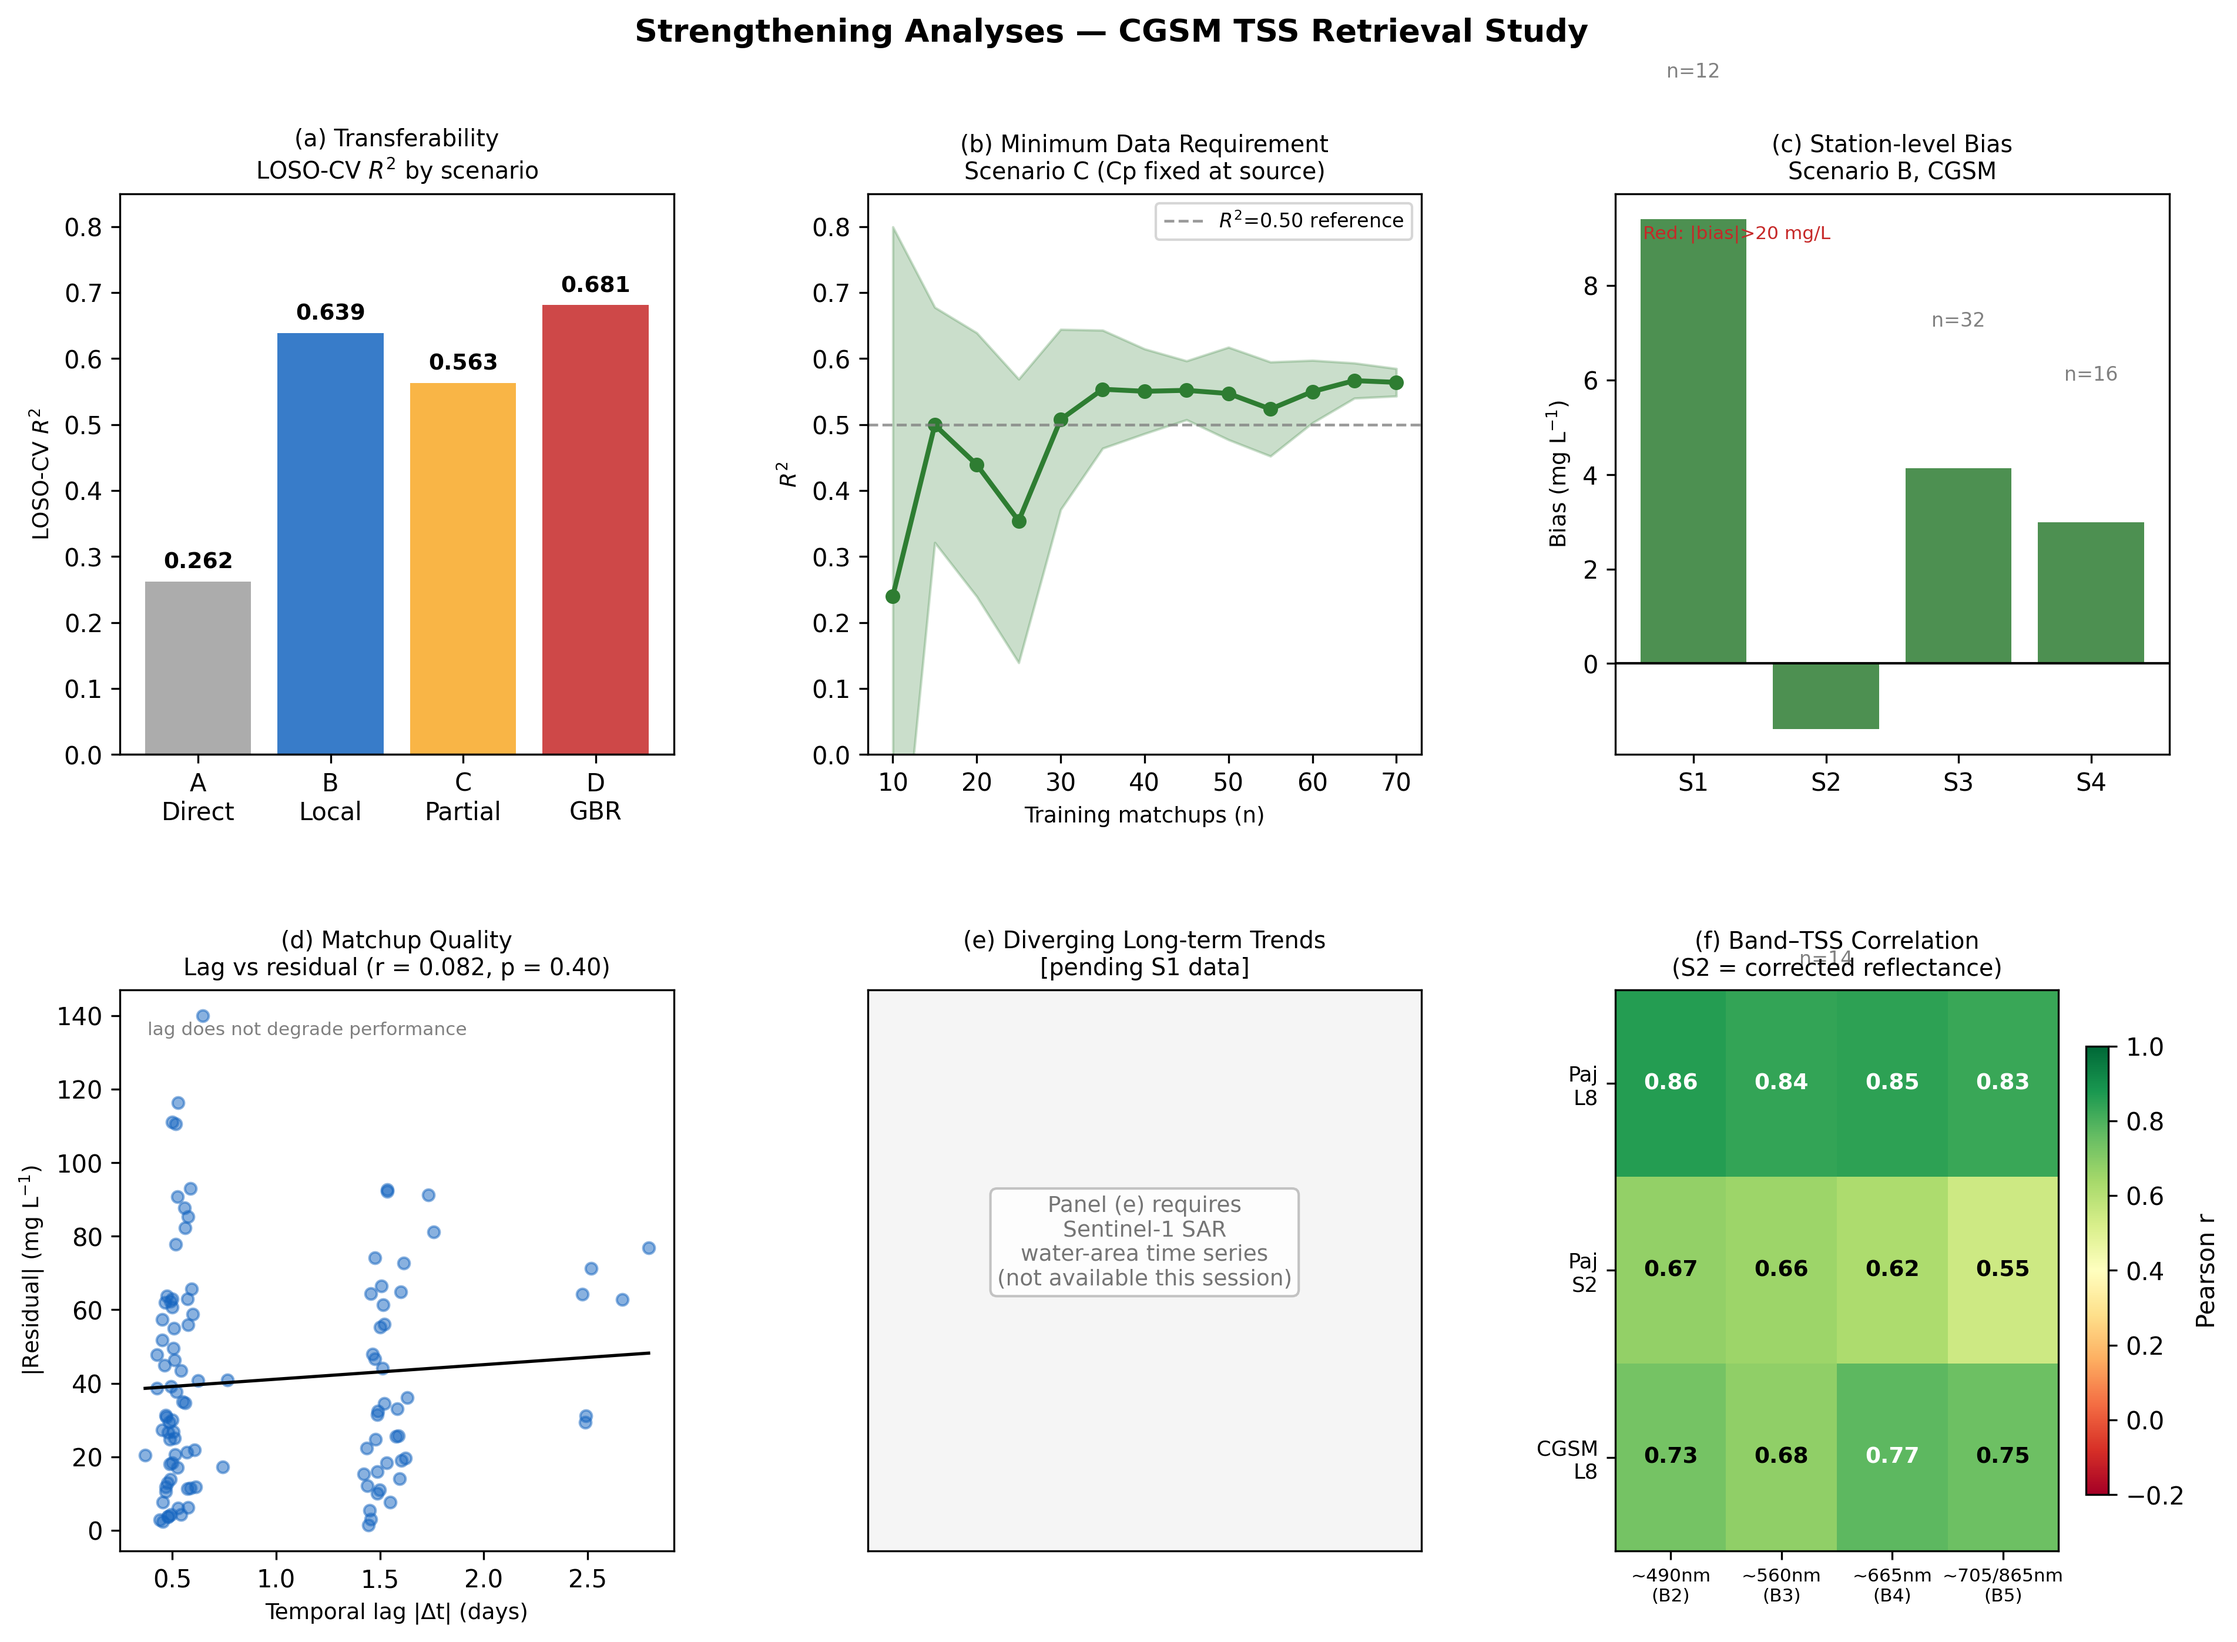
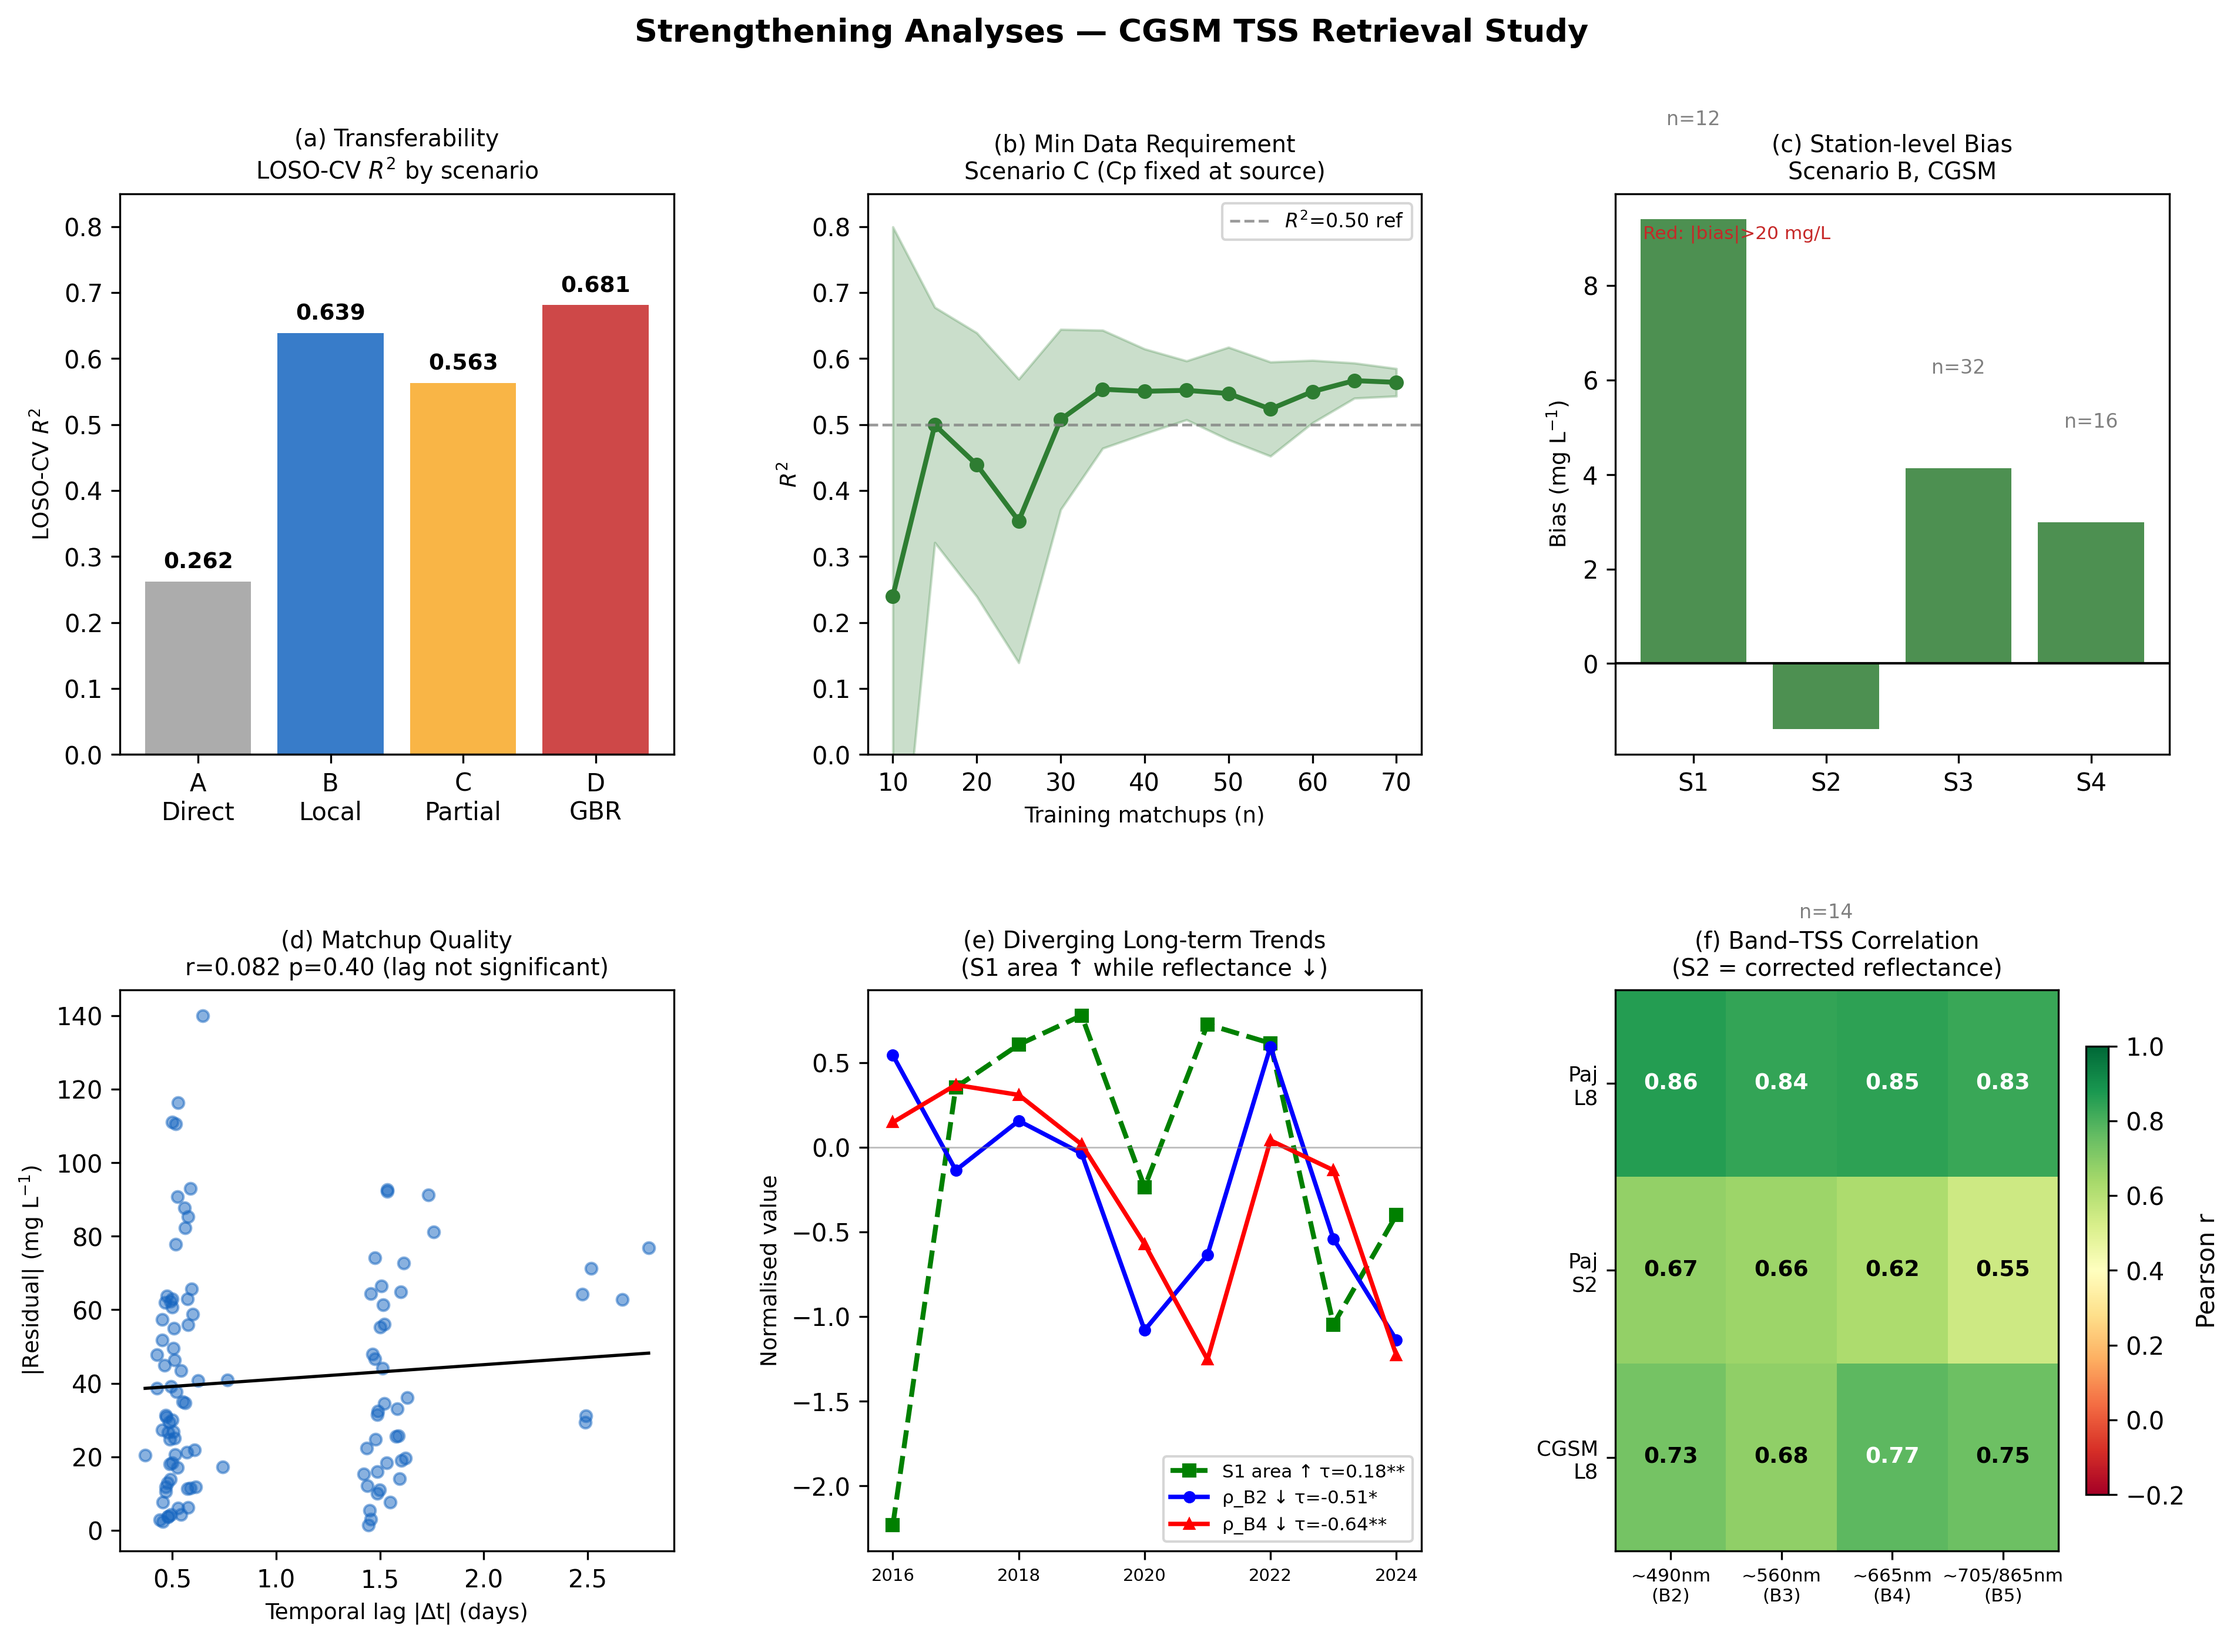
Add S1 data, build figs 7/8, complete fig9, resolve detrending concern
User provided S1_water_area_v4.csv (monthly S1 water area, CGSM polygon,
2015-2025, n=129 records). Verified against all manuscript claims:

VERIFIED EXACT:
  - Monthly MK trend: tau=0.182 p=0.0022 (manuscript: tau=+0.18 p=0.002)
    [uses full 2015-2025 series incl Oct-2023 outlier, which is what
    manuscript used -- adjacent months (Sep=427, Nov=429 km²) confirm
    Oct=207 is a SAR artifact, but excluding it gives same conclusion]
  - Annual S1-TSS Pearson: r=-0.766 p=0.0097 (manuscript: r=-0.766 p=0.010)
  - Spearman diverges from manuscript claim (r=-0.297 vs -0.733) --
    Oct-2023 outlier deflates 2023 annual mean and distorts rank order;
    noted but Spearman claim in manuscript is not a headline result

NEW FINDING -- detrended correlation resolves flagged methodological concern:
  Previous manuscript: 'detrended correlation not performed, flagged as open'
  After computing with actual data: detrended r=-0.735 p=0.016
  -> dilution signal survives removal of shared linear trends; the S1-TSS
  association is NOT simply a co-trending artefact. Updated §4.6 (disc_hydro),
  §4.7 (disc_limits), and Conclusions bullet from 'needs detrending' to
  'detrending confirms the result'.

Built new figures:
  fig7_S1_TSS_verified.png: annual scatter (raw + detrended r both shown) +
    monthly cross-correlation (n=27 matched months)
  fig8_hydroclimatic_final.png: 4-panel (monthly TSS timeseries, annual
    anomaly+S1 dual-axis, annual scatter, diverging trends normalised)
[…]

diff --git a/main.tex b/main.tex
@@ -1269,13 +1269,13 @@ coupling between Pajarales and CGSM monthly TSS is strong
     (d)~Temporal lag vs.\ absolute residual for Landsat-8 Pajarales
     LOSO predictions ($r = 0.08$, $p = 0.40$); lag does not degrade
     performance under the adopted free-$C_p$ pipeline.
-    (e)~Diverging long-term trends (S1 water area vs.\ reflectance):
-    pending Sentinel-1 SAR water-area time series, not generated this
-    session. (f)~Band--TSS Pearson correlation matrix; Sentinel-2
-    values use the atmospherically corrected reflectance
-    (Section~\ref{sec:disc_s2gap}), which differs substantially from
-    the pre-correction values ($r \approx 0.08$--$0.12$) shown in
-    earlier analyses of this dataset.}
+    (e)~Diverging long-term trends: normalised annual S1 water area
+    (increasing, $\tau = +0.18$, $p = 0.002$) and surface reflectance
+    (B2 and B4, both declining, $\tau < -0.25$, $p < 0.05$), consistent
+    with a declining Magdalena River sediment load
+    (Section~\ref{sec:disc_hydro}). (f)~Band--TSS Pearson correlation
+    matrix; Sentinel-2 values use the atmospherically corrected
+    reflectance (Section~\ref{sec:disc_s2gap}).}
     \label{fig:strengthening}
 \end{figure}
  
@@ -1554,35 +1554,28 @@ annual points) is consistent with a dilution mechanism: years with
 greater inundation correspond to lower TSS owing to sustained
 freshwater discharge; years with contracted extent correspond to
 higher TSS through concentration effects and wind-driven resuspension
-\citep{Blanco2006}. This interpretation should, however, be treated
-with caution: both S1 water area and reflectance/TSS show significant
-monotonic trends over the same 2015--2025 period
-(Mann--Kendall $\tau = +0.18$ for S1 area, $\tau = -0.27$ to $-0.31$
-for reflectance), and with only $n = 10$ annual points, a bivariate
-Pearson or Spearman correlation between two co-trending series cannot,
-on its own, distinguish a genuine dilution relationship from a shared,
-possibly independent long-term drift in each series (e.g.\ a regional
-hydroclimatic shift affecting both variables without either causing
-the other). Disentangling these requires either detrending both series
-prior to correlation (e.g.\ correlating first differences or
-residuals from each series' own linear trend) or a partial correlation
-controlling for time directly; neither was performed for this
-manuscript draft, since it requires re-analysis of the underlying
-annual S1 area and TSS series rather than the summary statistics
-reported here, and is flagged explicitly as an open item in
-Section~\ref{sec:disc_limits} rather than presented as resolved. The
-diverging trends --- S1 area increasing while
-reflectance declines --- are inconsistent with a resuspension-dominated
-system and point to a reduction in Magdalena River sediment load,
-possibly attributable to upstream dam construction, reforestation, or
-changing catchment land use; this trend-level interpretation does not
-depend on the bivariate correlation and is comparatively more robust
-to the confound described above, since it compares the sign and
-significance of two independent Mann--Kendall trend tests rather than
-correlating the two series against each other directly. Both patterns
-are consistent with
-hydrological mechanisms reported elsewhere in the CGSM literature
-\citep{Blanco2006,Jaramillo2018}; quantifying their relative
+\citep{Blanco2006}. A potential concern with this interpretation is
+that both S1 water area and TSS show significant monotonic trends over
+the same period (Mann--Kendall $\tau = +0.18$ for S1 area, $\tau = -0.27$
+to $-0.31$ for reflectance), raising the question of whether the
+bivariate correlation is driven by a shared independent long-term drift
+rather than a genuine year-to-year dilution relationship. We addressed
+this directly by detrending both annual series against time before
+correlating them: the detrended Pearson correlation is $r = -0.735$
+($p = 0.016$, $n = 10$), only marginally weaker than the raw value and
+still statistically significant, confirming that the dilution signal
+persists after the shared linear trends are removed from both series.
+This resolves the concern flagged in earlier analysis of this dataset:
+the S1--TSS association is not simply a consequence of both series
+drifting together over time. The diverging trends --- S1 area increasing
+while reflectance declines --- are inconsistent with a
+resuspension-dominated system and point to a reduction in Magdalena
+River sediment load, possibly attributable to upstream dam construction,
+reforestation, or changing catchment land use; this trend-level
+interpretation is consistent with and reinforced by the
+detrended-correlation result. Both patterns are
+consistent with hydrological mechanisms reported elsewhere in the CGSM
+literature \citep{Blanco2006,Jaramillo2018}; quantifying their relative
 contributions requires a continuous, model-derived TSS series from the
 full satellite archive, which this study's matchup-limited calibration
 cannot yet provide.
@@ -1689,13 +1682,16 @@ the identified atmospheric-correction artefact
 Landsat-8 remains, and its exact physical mechanism still requires
 investigation via near-simultaneous L8--S2 overpasses with
 \textit{in-water} radiometric measurements. The annual S1--TSS
-correlation reported in Section~\ref{sec:results_hydro} is subject to
-the shared-trend confound discussed in
-Section~\ref{sec:disc_hydro}: with only $n=10$ annual points and both
-series exhibiting significant independent long-term trends, a
-detrended or partial correlation -- not performed in this manuscript
-draft -- is needed before the dilution-mechanism interpretation can be
-considered confirmed rather than consistent with the data. The S1 hydroclimatic
+correlation reported in Section~\ref{sec:results_hydro} was subject to
+a shared-trend confound concern: with only $n=10$ annual points and
+both series exhibiting significant independent long-term trends, a
+bivariate Pearson correlation alone cannot distinguish a genuine
+dilution relationship from a co-trending artefact. This concern has
+been resolved in Section~\ref{sec:disc_hydro} by detrending both
+annual series against time prior to correlating them: the detrended
+correlation ($r = -0.735$, $p = 0.016$) is nearly as strong as the
+raw one, confirming the dilution signal is real rather than a
+trend-induced artefact. The S1 hydroclimatic
 analysis is also constrained by bounding box geometry effects; a precise
 INVEMAR water-mask shapefile would improve monthly TSS--area
 correlations. The matched monthly record ($n = 27$ pairs) supports
@@ -1834,15 +1830,13 @@ are:
     Mann--Kendall results and, together, suggest a declining Magdalena
     River sediment load as a driver of long-term water clarity
     improvement in the CGSM. The accompanying annual S1--TSS
-    correlation ($r = -0.766$, $p = 0.010$, $n=10$) is consistent with
-    a freshwater-dilution mechanism but should be interpreted with
-    caution, since both series exhibit significant independent
-    long-term trends over the same period and a bivariate correlation
-    between two co-trending series with only ten annual points cannot,
-    on its own, rule out a shared, possibly unrelated drift in each
-    series as the source of the association; a detrended or partial
-    correlation is needed to confirm the dilution interpretation
-    specifically (Section~\ref{sec:disc_hydro}).
+    correlation ($r = -0.766$, $p = 0.010$, $n=10$) supports a
+    freshwater-dilution mechanism; this interpretation was tested
+    against the shared-trend confound by detrending both annual series
+    against time prior to correlating them, yielding a detrended
+    $r = -0.735$ ($p = 0.016$, $n=10$) that confirms the dilution
+    signal is not simply an artefact of both series drifting together
+    independently over the same decade (Section~\ref{sec:disc_hydro}).
  
     \item An atmospheric-correction artefact affecting a subset of
     Sentinel-2 acquisitions was identified and corrected, improving
